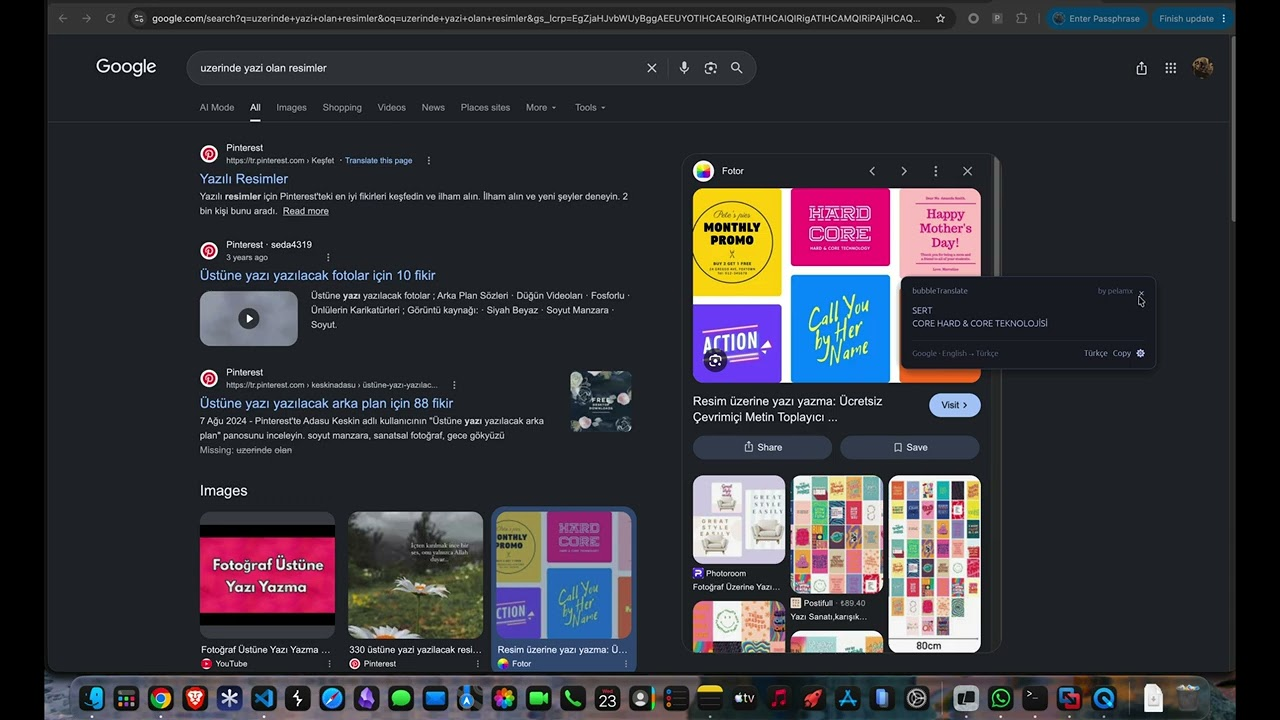
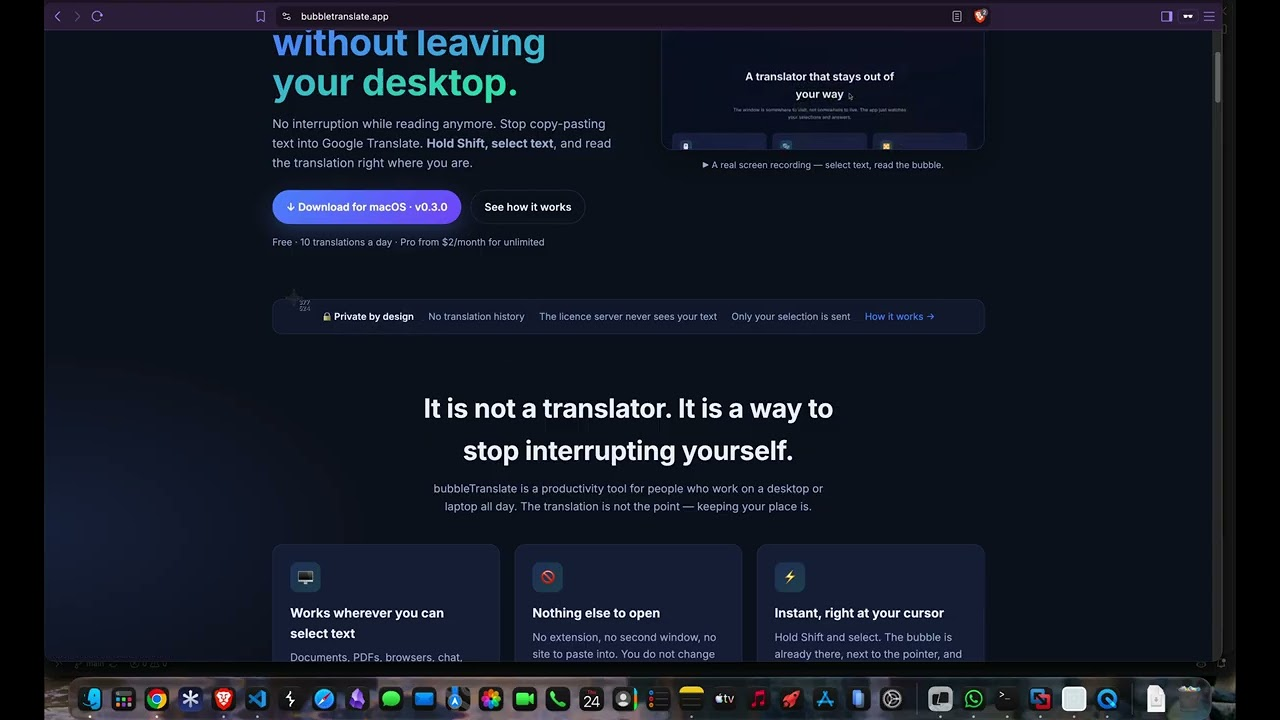
Point the demo at the newer recording
🤖 Generated with [Claude Code](https://claude.com/claude-code)

diff --git a/es/index.html b/es/index.html
@@ -141,7 +141,7 @@
         </div>
         <div class="how-ocr">
           <div class="video-frame">
-            <button type="button" class="video-facade" data-youtube="96MzyKrMaaY"
+            <button type="button" class="video-facade" data-youtube="bUZu3ES3jRM"
                     aria-label="Reproducir la demo" data-i18n-aria="how.ocr.play">
               <img src="downloads/video/ocr-poster.jpg" alt="" width="1280" height="720" loading="lazy" decoding="async">
               <span class="video-play" aria-hidden="true">▶</span>

diff --git a/index.html b/index.html
@@ -141,7 +141,7 @@
         </div>
         <div class="how-ocr">
           <div class="video-frame">
-            <button type="button" class="video-facade" data-youtube="96MzyKrMaaY"
+            <button type="button" class="video-facade" data-youtube="bUZu3ES3jRM"
                     aria-label="Play the demo" data-i18n-aria="how.ocr.play">
               <img src="downloads/video/ocr-poster.jpg" alt="" width="1280" height="720" loading="lazy" decoding="async">
               <span class="video-play" aria-hidden="true">▶</span>

diff --git a/tr/index.html b/tr/index.html
@@ -141,7 +141,7 @@
         </div>
         <div class="how-ocr">
           <div class="video-frame">
-            <button type="button" class="video-facade" data-youtube="96MzyKrMaaY"
+            <button type="button" class="video-facade" data-youtube="bUZu3ES3jRM"
                     aria-label="Demoyu oynat" data-i18n-aria="how.ocr.play">
               <img src="downloads/video/ocr-poster.jpg" alt="" width="1280" height="720" loading="lazy" decoding="async">
               <span class="video-play" aria-hidden="true">▶</span>
